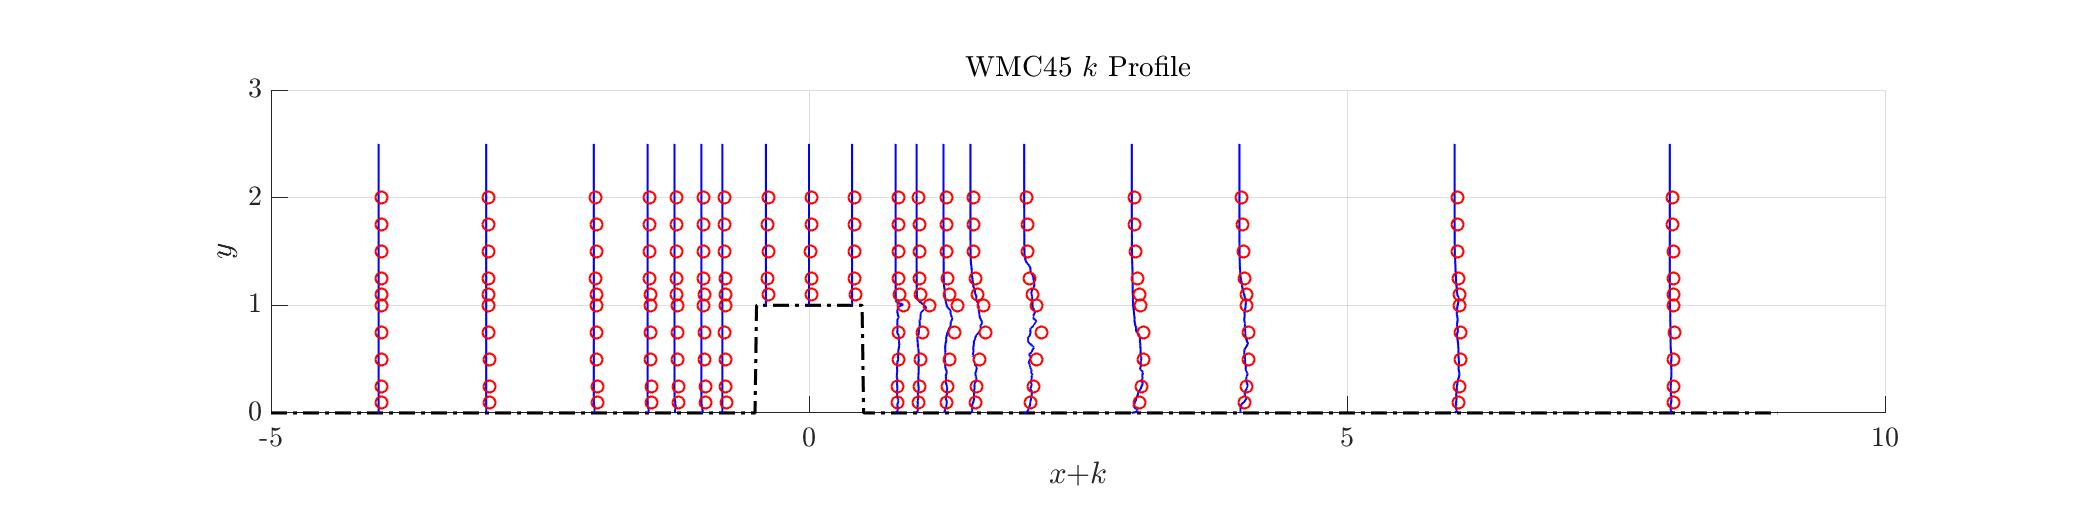
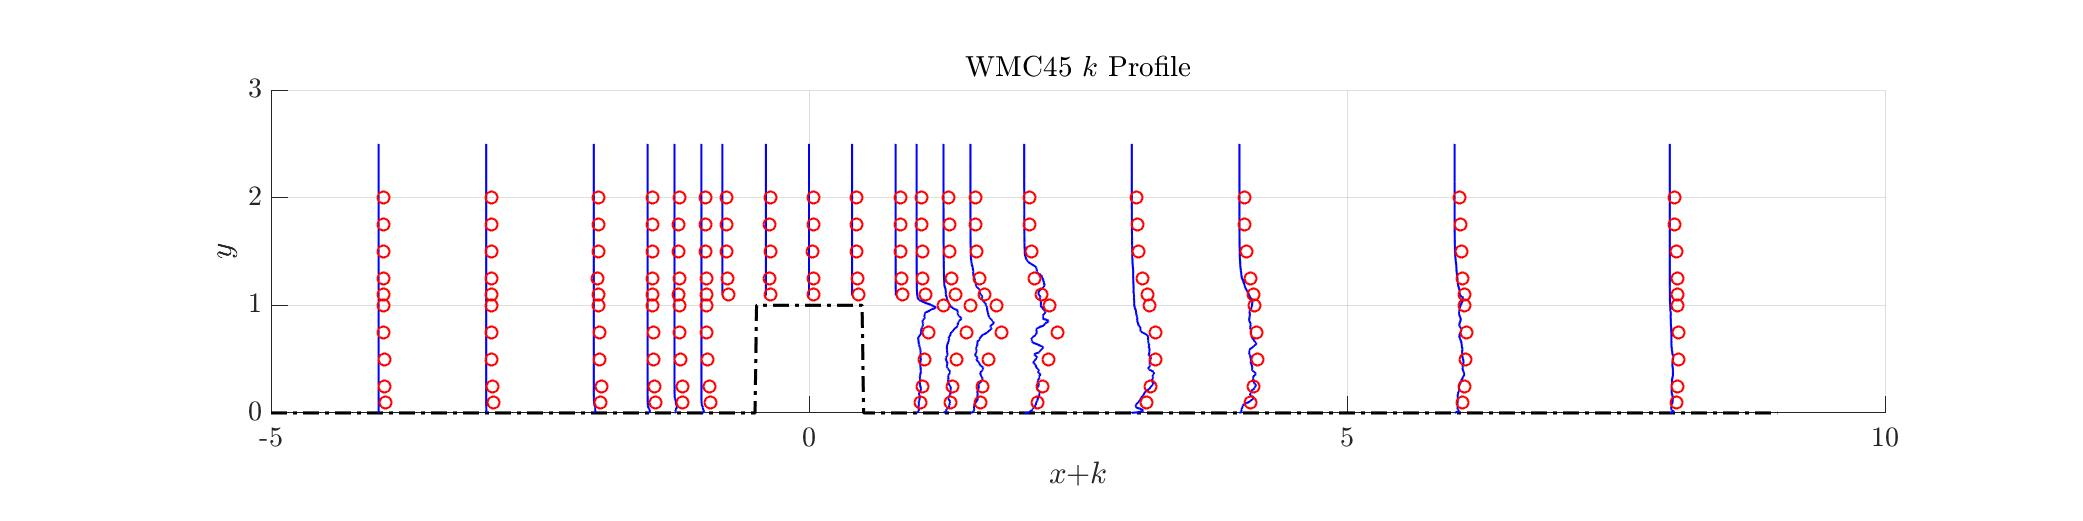
cleared nonaligned points near cube

diff --git a/mtlb/epa45.m b/mtlb/epa45.m
@@ -17,6 +17,10 @@
 %=======================================================
 clear;
 al=45;
+
+uscl=0.5;
+kscl=2.0;
+
 %=======================================================
 
 nx1=19; % centerline
@@ -93,8 +97,8 @@ kE1=0.75*(uuE1.*uuE1+vvE1.*vvE1);
 %----------
 % figs
 %----------
-profXY2( uN(I1),xN(I1),yN(I1),uE1,xE1,yE1,0.5,'u','$$v_x$$',al,xw,yw);
-profXY2(k1N(I1),xN(I1),yN(I1),kE1,xE1,yE1,2.0,'k','$$k$$'  ,al,xw,yw);
+profXY2( uN(I1),xN(I1),yN(I1),uE1,xE1,yE1,uscl,'u','$$v_x$$',al,xw,yw);
+profXY2(k1N(I1),xN(I1),yN(I1),kE1,xE1,yE1,kscl,'k','$$k$$'  ,al,xw,yw);
 %
 %=======================================================
 % horizontal ground plane
@@ -127,5 +131,5 @@ yE2=xE2*0+0.1;
 %----------
 % figs
 %----------
-profXZ2(uN(I2) ,xN(I2),zN(I2),uE2,xE2,zE2,0.5,'u','$$v_x$$',al,xw,yw,0.1);
-profXZ2(k1N(I2),xN(I2),zN(I2),kE2,xE2,zE2,2.0,'k','$$k$$'  ,al,xw,yw,0.1);
+profXZ2(uN(I2) ,xN(I2),zN(I2),uE2,xE2,zE2,uscl,'u','$$v_x$$',al,xw,yw,0.1);
+profXZ2(k1N(I2),xN(I2),zN(I2),kE2,xE2,zE2,kscl,'k','$$k$$'  ,al,xw,yw,0.1);

diff --git a/mtlb/epa90.m b/mtlb/epa90.m
@@ -17,6 +17,10 @@
 %=======================================================
 clear;
 al=90;
+
+uscl=0.5;
+kscl=2.0;
+
 %=======================================================
 
 nx1=21; % centerline
@@ -92,8 +96,8 @@ zE1=xE1*0;
 % figs
 %----------
 
-profXY2( uN(I1),xN(I1),yN(I1),uE1,xE1,yE1,0.5,'u','$$v_x$$',al,xw,yw);
-profXY2(k1N(I1),xN(I1),yN(I1),kE1,xE1,yE1,2.0,'k','$$k$$'  ,al,xw,yw);
+profXY2( uN(I1),xN(I1),yN(I1),uE1,xE1,yE1,uscl,'u','$$v_x$$',al,xw,yw);
+profXY2(k1N(I1),xN(I1),yN(I1),kE1,xE1,yE1,kscl,'k','$$k$$'  ,al,xw,yw);
 %
 %=======================================================
 % horizontal ground plane
@@ -126,6 +130,6 @@ yE2=xE2*0+0.1;
 %----------
 % figs
 %----------
-profXZ2( uN(I2),xN(I2),zN(I2),uE2,xE2,zE2,0.5,'u','$$v_x$$',al,xw,yw,0.1);
-profXZ2(k1N(I2),xN(I2),zN(I2),kE2,xE2,zE2,2.0,'k','$$k$$'  ,al,xw,yw,0.1);
+profXZ2( uN(I2),xN(I2),zN(I2),uE2,xE2,zE2,uscl,'u','$$v_x$$',al,xw,yw,0.1);
+profXZ2(k1N(I2),xN(I2),zN(I2),kE2,xE2,zE2,kscl,'k','$$k$$'  ,al,xw,yw,0.1);
 

diff --git a/mtlb/insidecube.m b/mtlb/insidecube.m
@@ -15,7 +15,7 @@ xz=[xx,zz]*M';
 xx=xz(:,1);
 zz=xz(:,2);
 
-tol=1e-4;
+tol=9e-2;
 I = find((abs(xx) < 0.50+tol)...
        & (abs(zz) < 0.50+tol)...
 	   & (yy      < 1.00+tol));
